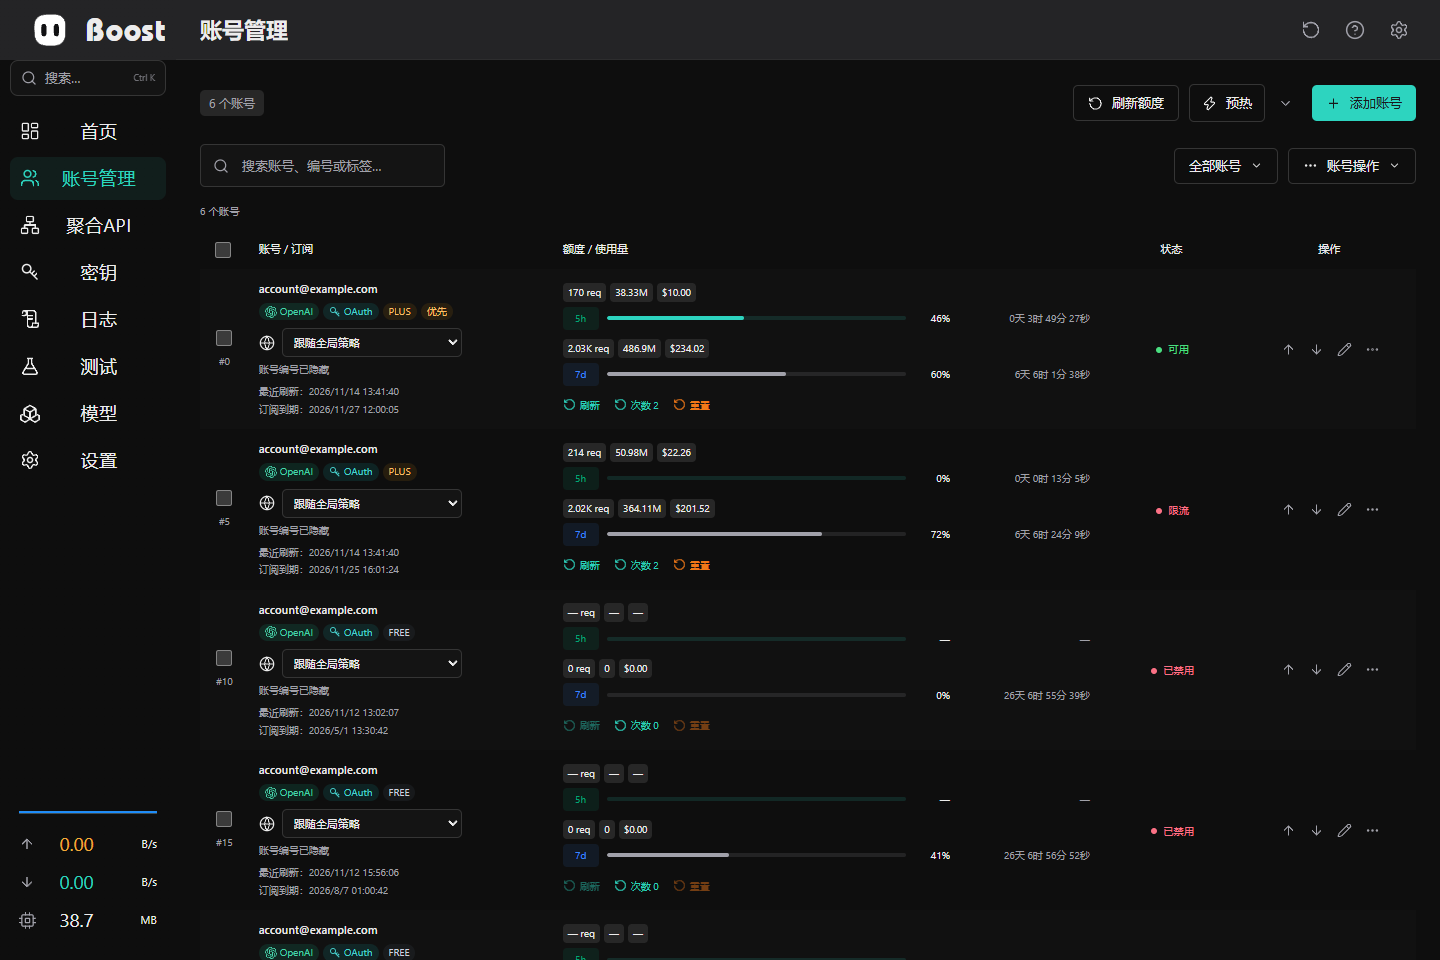
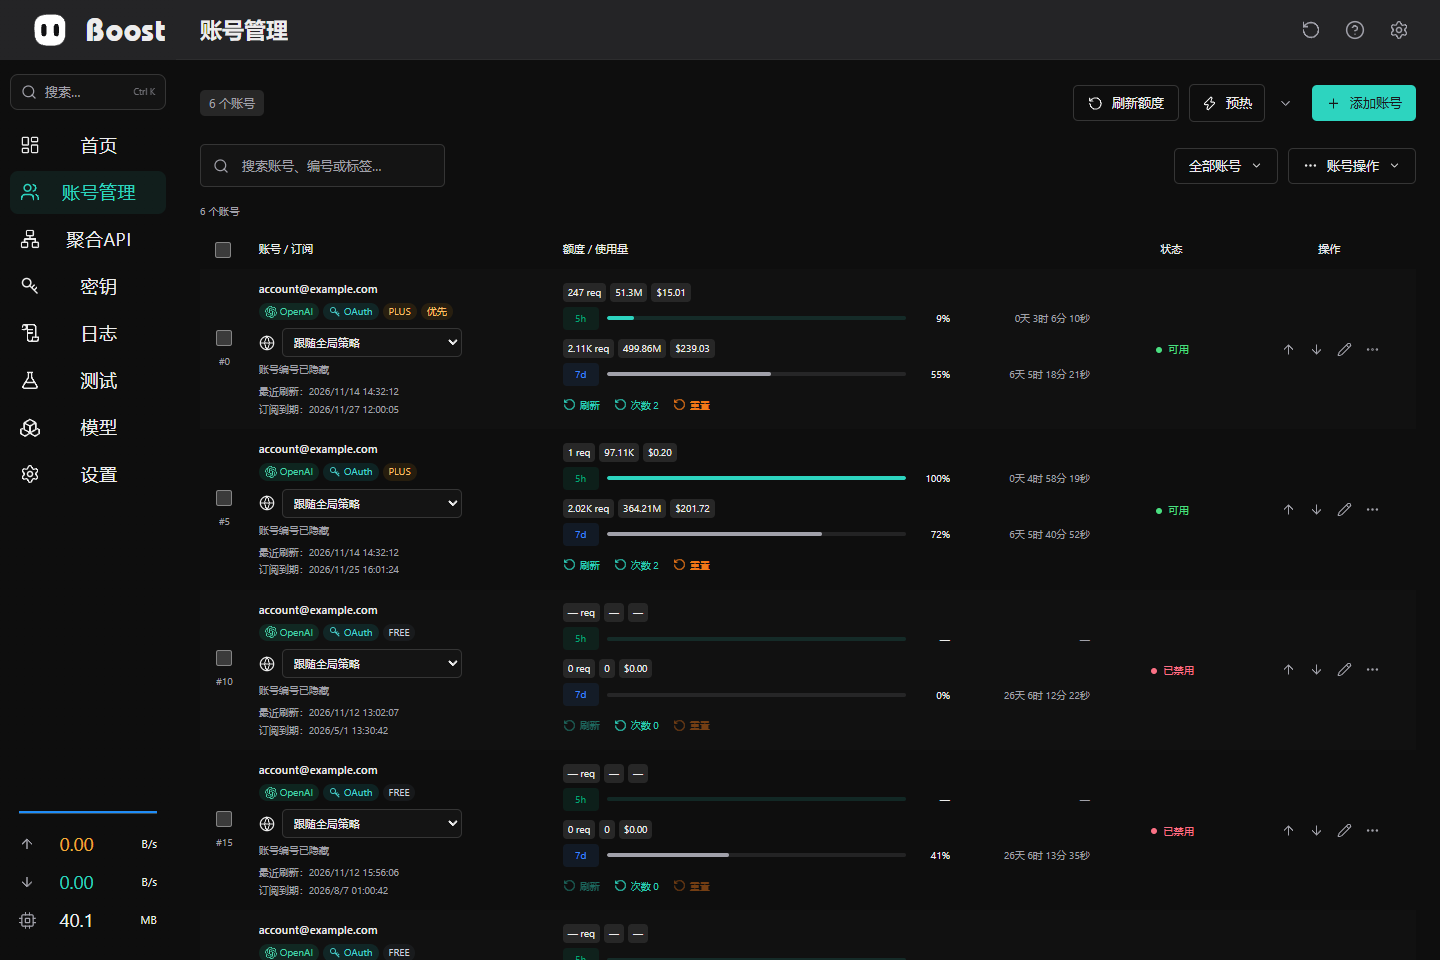
fix: balance sidebar search spacing for 0.5.1

diff --git a/frontend/src/components/SidebarSearch.vue b/frontend/src/components/SidebarSearch.vue
@@ -125,7 +125,7 @@ onBeforeUnmount(() => document.removeEventListener("keydown", shortcut));
   width: 100%;
   min-height: 34px;
   padding: 7px 10px;
-  margin: 0 0 14px;
+  margin: 14px 0;
   border: 1px solid var(--border);
   border-radius: 8px;
   background: var(--input);

diff --git a/task.md b/task.md
@@ -418,6 +418,7 @@ Source: 用户授权完成审查及图片更新后推送main并更新0.5.1发布
 - [ ] B019-05 P0：将完成代码同步main并更新0.5.1发布资产／标签，核对远端提交和上传文件完整性。
 - [ ] B019-06 P0：发布后使用Bot独立聚合来源对三款指定模型执行真实JSON／SSE、工具及Bot对话测试，核查日志并如实记录结果。
 - [ ] B019-07 P2：勾选验收任务、记录剩余外部限制，保留审查入口并精确清理本轮临时资源。
+- [x] B019-08 P1：按补充审查要求，将侧栏搜索框上下留白统一为14px，不改变品牌／搜索框尺寸；验证深浅主题、展开／收起和不同宽度并同步README截图。
 
 <!-- BATCHES_END -->
 
@@ -735,3 +736,4 @@ Source: 用户授权完成审查及图片更新后推送main并更新0.5.1发布
 - 三款指定模型在新版独立聚合路由上通过12项Chat／Responses普通及SSE检查、3项工具往返／Unicode保真检查（18个实际上游请求），加上真实受管Bot对话成功。最新目录严格为三款。旧生产0.5.1仍返回27款目录，且生产Bot保存旧gpt-6.1-sol，属于更新后需校正的运行配置，不能继续用该型号验收独立来源。
 - 初始旧版基线使用严格回复口令时，个别请求返回非逐字口令（包含断行），HTTP仍为成功。正式验收区分模型文案与传输完整性：检查非空响应、逐增量拼接一致、结构化用量、工具参数原字节及最终错误，不把模型措辞变化隐去或误判为HTTP故障。
 - GitHub当前main／v0.5.1状态与已有三类桌面资产已核对；本轮用户已重新授权推送和更新0.5.1，覆盖此前暂停发布的约束。发布／远端资产验证及发布后实测完成后再勾选剩余B019项。
+- 用户补充要求搜索框上方与搜索框到首页的间距一致，本轮仅将SidebarSearch的上下外边距统一为14px，不改品牌、头像、控件尺寸或主布局。主前端build:desktop和实际浏览器16组深浅主题／展开收起／1440、980、760、390px检查通过；上下实测均为14px，搜索打开及Escape关闭正常。同步重新生成五张主界面README截图，补充修正纳入最终0.5.1构建。

diff --git a/docs/releases/v0.5.1.md b/docs/releases/v0.5.1.md
@@ -1,6 +1,6 @@
 # Boost 0.5.1
 
-本次更新在 0.5.1 中同步近期 Bot、独立聚合来源、任务步骤与界面审查修正，并更新 README 的实际界面截图。
+本次更新在 0.5.1 中同步近期 Bot、独立聚合来源、任务步骤与界面审查修正，并更新 README 的实际界面截图。侧栏搜索框上下留白保持一致。
 
 ## 更新内容
 
